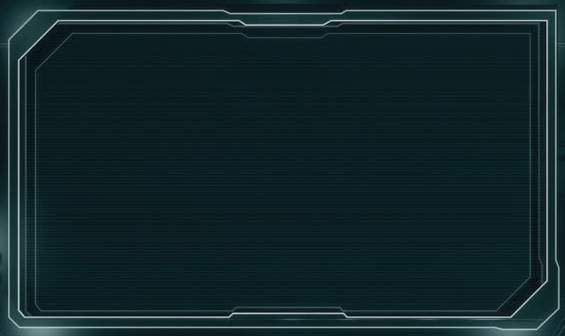
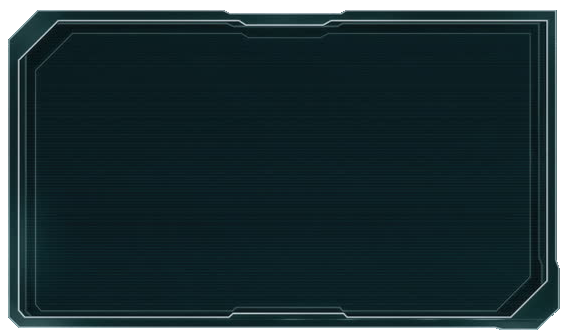
-realigned scoreboard -changed background image for scores/selection to have transparent edges

Changed region(s): [[0.0, 0.0, 1.0, 1.0]]

diff --git a/src/edu/virginia/lab1test/TheMinorsGame.java b/src/edu/virginia/lab1test/TheMinorsGame.java
@@ -160,7 +160,6 @@ public class TheMinorsGame extends Game {
         scoreTitle.setyScale(.5);
         scoreTitle.setxScale(.5);
         scoreTitle.alignCenterHorizontal(scoreboardBackground);
-        scoreTitle.setyPosition(50);
 
         gameOverBackground.setPosition(350,100);
         gameOverBackground.setScale(1,1);
@@ -855,7 +854,8 @@ public class TheMinorsGame extends Game {
                 }
                 player.sizeScoreBar(winScore);
                 player.getScoreBar().setxPosition(100);
-                player.getScoreBar().alignFractionVertical(scoreboardBackground, numberOfPlayers + 1, player.playerNumber + 1);
+                player.getScoreBar().alignFractionVertical(scoreboardBackground, numberOfPlayers + 2, player.playerNumber + 2);
+                scoreTitle.alignFractionVertical(scoreboardBackground,numberOfPlayers+2,1);
                 if (!scoreboardBackground.getChildren().contains(player.getScoreBar()))
                     scoreboardBackground.addChild(player.getScoreBar());
                 if(player.getScore() >= winScore) {
